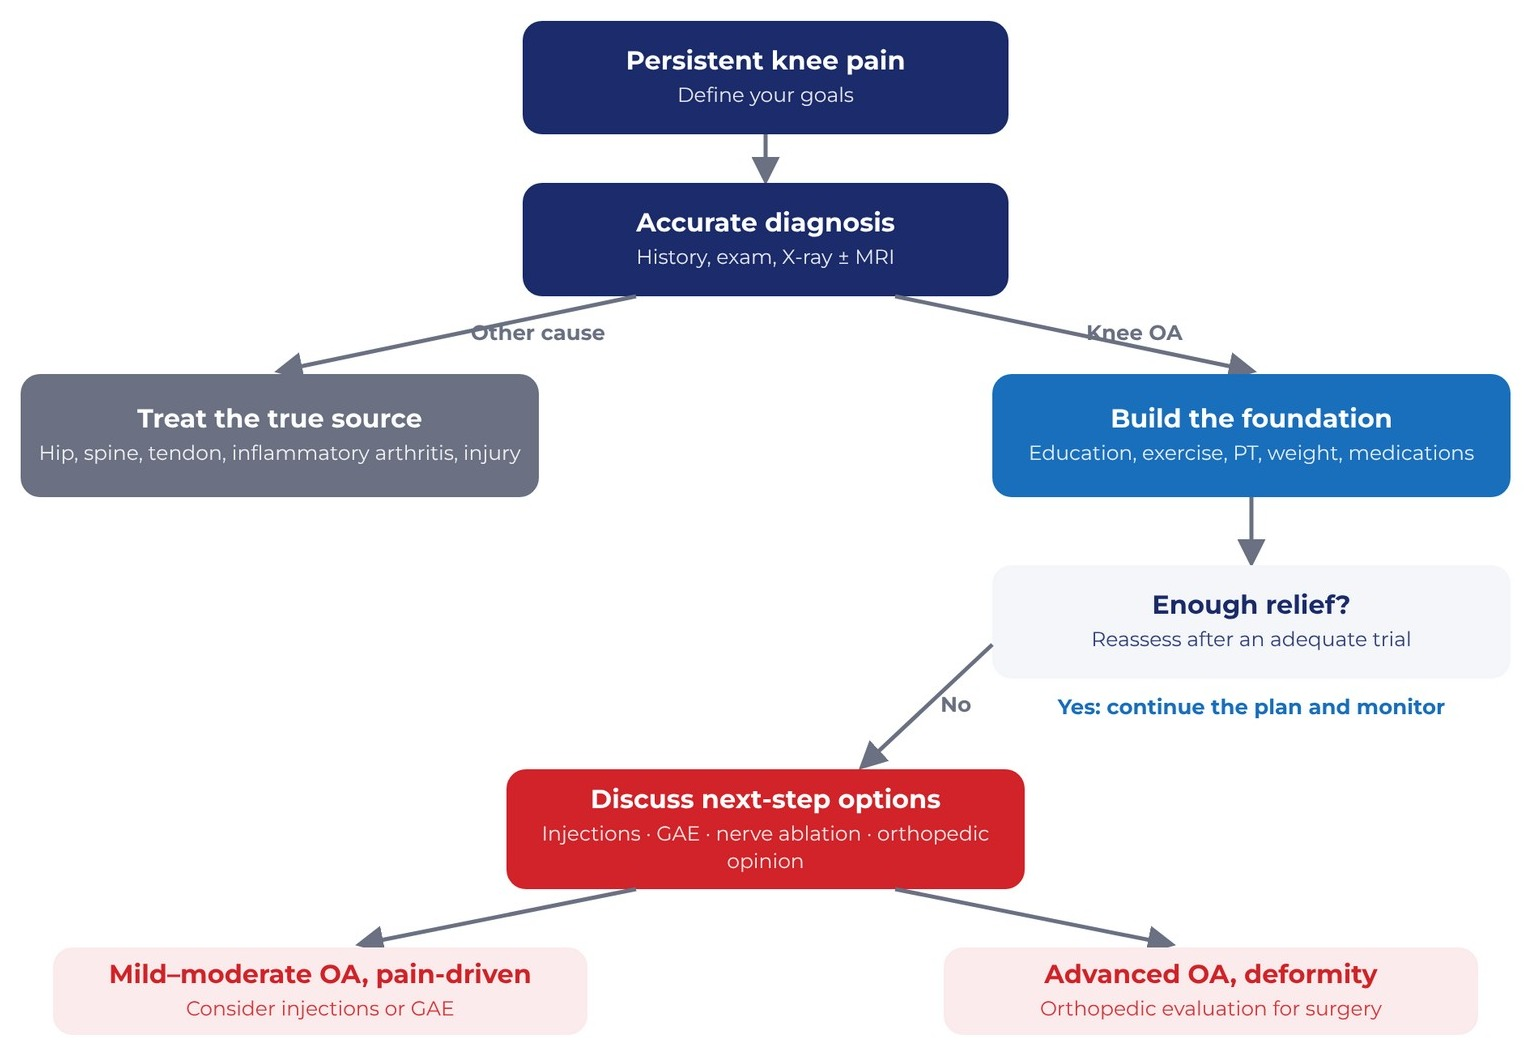
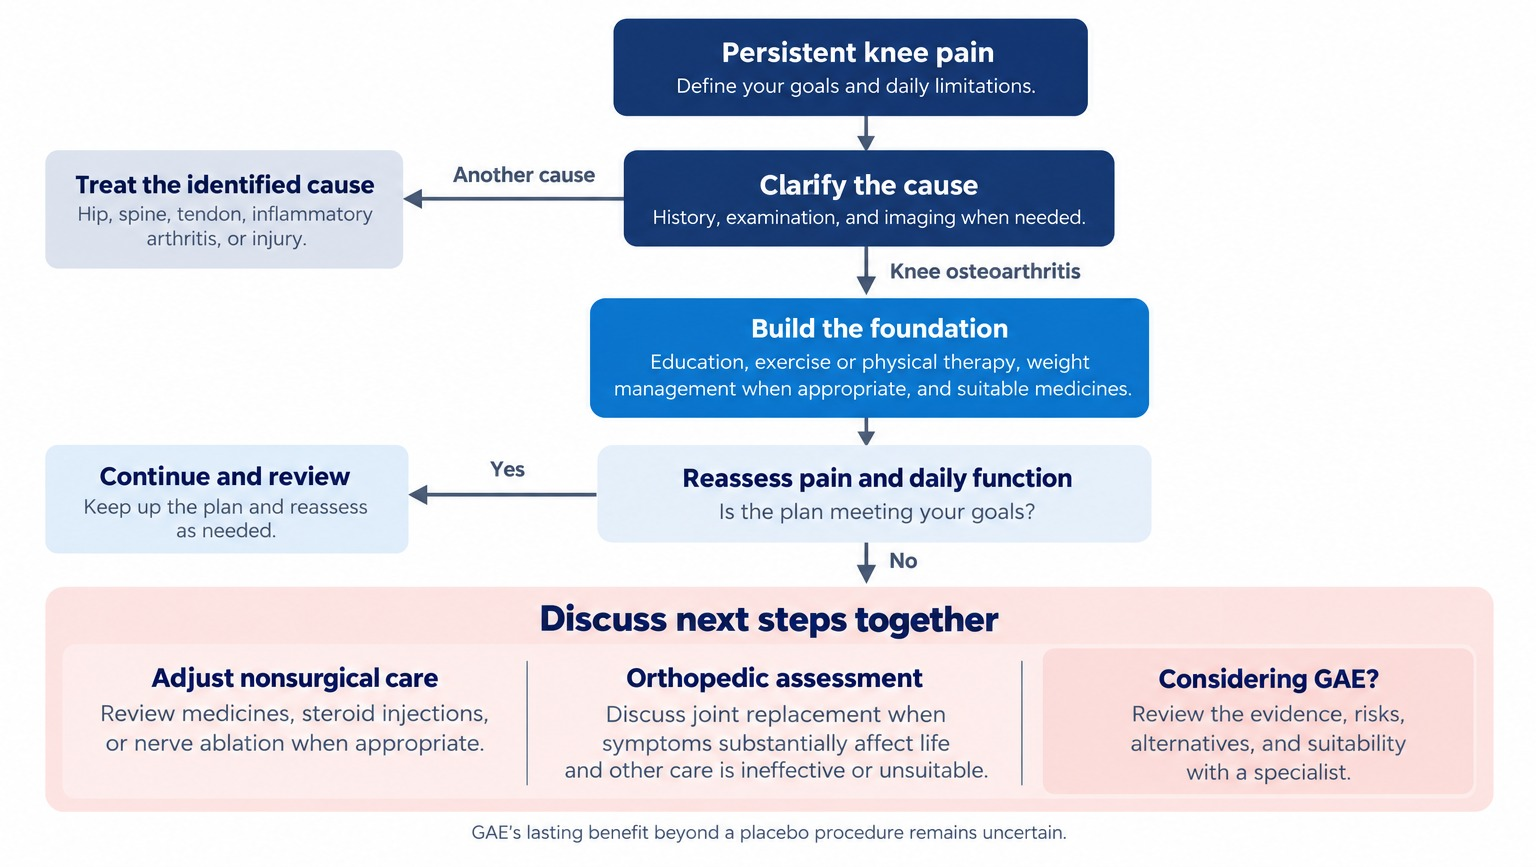
Flip J22a: new decision pathway illustration
Claude-Session: https://claude.ai/code/session_011FeJdRfmDCgTZcMtNMgwbg

diff --git a/js/templates.js b/js/templates.js
@@ -871,7 +871,7 @@ window.AJPVC_TEMPLATES = [
     "label": "J22a · A Step-by-Step Decision Path (patient side)",
     "w": 1056,
     "h": 816,
-    "html": "<div style=\"width: 1056px; height: 816px; box-sizing: border-box; background: #FFFEFB; color: #1B2440; font-family: 'Public Sans', sans-serif; display: flex; flex-direction: column; padding: 34px 44px 26px; gap: 20px\">\n<div style=\"display: flex; justify-content: space-between; align-items: flex-end; gap: 24px; border-bottom: 5px solid #C8231E; padding-bottom: 14px\">\n<div style=\"display: flex; flex-direction: column; gap: 4px\"><p style=\"margin: 0; font-family: 'Montserrat', sans-serif; font-weight: 700; font-size: 15px; letter-spacing: 3px; text-transform: uppercase; color: #C8231E\">Joint pain</p>\n<h1 style=\"margin: 0; font-family: 'Montserrat', sans-serif; font-weight: 800; font-size: 44px; line-height: 1.05; color: #16306E\">A Step-by-Step Decision Path</h1></div>\n<div style=\"display: flex; align-items: center; gap: 14px\"><img src=\"assets/logo-hvlc.png\" alt=\"Heart Vascular &amp; Leg Center logo\" style=\"height: 34px; width: 78px; object-fit: contain; object-position: left center\"><span style=\"width: 1px; height: 27px; background: #E2DED4\"></span><img src=\"assets/logo-long-nodivision.png\" alt=\"Advanced Joint Pain &amp; Vascular Center logo\" style=\"height: 34px; width: 129px; object-fit: contain; object-position: left center\"></div></div>\n<main style=\"flex: 1; min-height: 0; display: flex; flex-direction: column; gap: 16px\"><div style=\"flex: 1; min-height: 0; display: flex; flex-direction: column; gap: 10px\"><div style=\"flex: 1; min-height: 0; min-width: 0; background: #FFFFFF; border-radius: 18px; overflow: hidden; display: flex\"><img src=\"assets/book-decision.jpg\" alt=\"Flowchart from persistent knee pain to accurate diagnosis, branching to treating another source or building the OA foundation, then reassessing relief and discussing next-step options such as injections, GAE or orthopedic evaluation.\" style=\"width: 100%; height: 100%; object-fit: contain; object-position: 50% 50%; display: block\"></div></div><div style=\"display: flex; gap: 24px\"><div style=\"flex: 1; min-width: 0; display: flex; gap: 12px; align-items: flex-start; border-top: 4px solid #C8231E; padding-top: 12px\"><p style=\"margin: 0; font-size: 22px; line-height: 1.32; color: #1B2440\">Start with your goals and an accurate diagnosis.</p></div><div style=\"flex: 1; min-width: 0; display: flex; gap: 12px; align-items: flex-start; border-top: 4px solid #C8231E; padding-top: 12px\"><p style=\"margin: 0; font-size: 22px; line-height: 1.32; color: #1B2440\">Build the foundation, then check if it is enough.</p></div><div style=\"flex: 1; min-width: 0; display: flex; gap: 12px; align-items: flex-start; border-top: 4px solid #C8231E; padding-top: 12px\"><p style=\"margin: 0; font-size: 22px; line-height: 1.32; color: #1B2440\">If not, talk through next steps that fit you.</p></div></div></main></div>"
+    "html": "<div style=\"width: 1056px; height: 816px; box-sizing: border-box; background: #FFFEFB; color: #1B2440; font-family: 'Public Sans', sans-serif; display: flex; flex-direction: column; padding: 34px 44px 26px; gap: 20px\">\n<div style=\"display: flex; justify-content: space-between; align-items: flex-end; gap: 24px; border-bottom: 5px solid #C8231E; padding-bottom: 14px\">\n<div style=\"display: flex; flex-direction: column; gap: 4px\"><p style=\"margin: 0; font-family: 'Montserrat', sans-serif; font-weight: 700; font-size: 15px; letter-spacing: 3px; text-transform: uppercase; color: #C8231E\">Joint pain</p>\n<h1 style=\"margin: 0; font-family: 'Montserrat', sans-serif; font-weight: 800; font-size: 44px; line-height: 1.05; color: #16306E\">A Step-by-Step Decision Path</h1></div>\n<div style=\"display: flex; align-items: center; gap: 14px\"><img src=\"assets/logo-hvlc.png\" alt=\"Heart Vascular &amp; Leg Center logo\" style=\"height: 34px; width: 78px; object-fit: contain; object-position: left center\"><span style=\"width: 1px; height: 27px; background: #E2DED4\"></span><img src=\"assets/logo-long-nodivision.png\" alt=\"Advanced Joint Pain &amp; Vascular Center logo\" style=\"height: 34px; width: 129px; object-fit: contain; object-position: left center\"></div></div>\n<main style=\"flex: 1; min-height: 0; display: flex; flex-direction: column; gap: 16px\"><div style=\"flex: 1; min-height: 0; display: flex; flex-direction: column; gap: 10px\"><div style=\"flex: 1; min-height: 0; min-width: 0; background: #FFFFFF; border-radius: 18px; overflow: hidden; display: flex\"><img src=\"assets/book-decision.jpg\" alt=\"Flowchart for choosing the next step for knee pain: define goals, clarify the cause, build the foundation, reassess, and if goals are not met discuss nonsurgical care, orthopedic assessment, or GAE with a specialist\" style=\"width: 100%; height: 100%; object-fit: contain; object-position: 50% 50%; display: block\"></div></div><div style=\"display: flex; gap: 24px\"><div style=\"flex: 1; min-width: 0; display: flex; gap: 12px; align-items: flex-start; border-top: 4px solid #C8231E; padding-top: 12px\"><p style=\"margin: 0; font-size: 22px; line-height: 1.32; color: #1B2440\">Start with your goals and an accurate diagnosis.</p></div><div style=\"flex: 1; min-width: 0; display: flex; gap: 12px; align-items: flex-start; border-top: 4px solid #C8231E; padding-top: 12px\"><p style=\"margin: 0; font-size: 22px; line-height: 1.32; color: #1B2440\">Build the foundation, then check if it is enough.</p></div><div style=\"flex: 1; min-width: 0; display: flex; gap: 12px; align-items: flex-start; border-top: 4px solid #C8231E; padding-top: 12px\"><p style=\"margin: 0; font-size: 22px; line-height: 1.32; color: #1B2440\">If not, talk through next steps that fit you.</p></div></div></main></div>"
    },
    {
     "label": "J22b · A Step-by-Step Decision Path (provider side)",

diff --git a/source/FlipJ22Decision.dc.html b/source/FlipJ22Decision.dc.html
@@ -18,7 +18,7 @@ body{margin:0}
 <div style="display: flex; flex-direction: column; gap: 4px"><p style="margin: 0; font-family: 'Montserrat', sans-serif; font-weight: 700; font-size: 15px; letter-spacing: 3px; text-transform: uppercase; color: #C8231E">Joint pain</p>
 <h1 style="margin: 0; font-family: 'Montserrat', sans-serif; font-weight: 800; font-size: 44px; line-height: 1.05; color: #16306E">A Step-by-Step Decision Path</h1></div>
 <div style="display: flex; align-items: center; gap: 14px"><img src="/_blob/1e4ce51a5c3cb793b6317890e43e495e" alt="Heart Vascular &amp; Leg Center logo" style="height: 34px; width: 78px; object-fit: contain; object-position: left center"><span style="width: 1px; height: 27px; background: #E2DED4"></span><img src="/_blob/48c0202744b17fe1f033a36586de7a92" alt="Advanced Joint Pain &amp; Vascular Center logo" style="height: 34px; width: 129px; object-fit: contain; object-position: left center"></div></div>
-<main style="flex: 1; min-height: 0; display: flex; flex-direction: column; gap: 16px"><div style="flex: 1; min-height: 0; display: flex; flex-direction: column; gap: 10px"><div style="flex: 1; min-height: 0; min-width: 0; background: #FFFFFF; border-radius: 18px; overflow: hidden; display: flex"><img src="/_blob/bce1513ca9b74781af301d483f154402" alt="Flowchart from persistent knee pain to accurate diagnosis, branching to treating another source or building the OA foundation, then reassessing relief and discussing next-step options such as injections, GAE or orthopedic evaluation." style="width: 100%; height: 100%; object-fit: contain; object-position: 50% 50%; display: block"></div></div><div style="display: flex; gap: 24px"><div style="flex: 1; min-width: 0; display: flex; gap: 12px; align-items: flex-start; border-top: 4px solid #C8231E; padding-top: 12px"><p style="margin: 0; font-size: 22px; line-height: 1.32; color: #1B2440">Start with your goals and an accurate diagnosis.</p></div><div style="flex: 1; min-width: 0; display: flex; gap: 12px; align-items: flex-start; border-top: 4px solid #C8231E; padding-top: 12px"><p style="margin: 0; font-size: 22px; line-height: 1.32; color: #1B2440">Build the foundation, then check if it is enough.</p></div><div style="flex: 1; min-width: 0; display: flex; gap: 12px; align-items: flex-start; border-top: 4px solid #C8231E; padding-top: 12px"><p style="margin: 0; font-size: 22px; line-height: 1.32; color: #1B2440">If not, talk through next steps that fit you.</p></div></div></main></div>
+<main style="flex: 1; min-height: 0; display: flex; flex-direction: column; gap: 16px"><div style="flex: 1; min-height: 0; display: flex; flex-direction: column; gap: 10px"><div style="flex: 1; min-height: 0; min-width: 0; background: #FFFFFF; border-radius: 18px; overflow: hidden; display: flex"><img src="/_blob/864969fea691f2bc6b657d3dfb28fb16" alt="Flowchart for choosing the next step for knee pain: define goals, clarify the cause, build the foundation, reassess, and if goals are not met discuss nonsurgical care, orthopedic assessment, or GAE with a specialist" style="width: 100%; height: 100%; object-fit: contain; object-position: 50% 50%; display: block"></div></div><div style="display: flex; gap: 24px"><div style="flex: 1; min-width: 0; display: flex; gap: 12px; align-items: flex-start; border-top: 4px solid #C8231E; padding-top: 12px"><p style="margin: 0; font-size: 22px; line-height: 1.32; color: #1B2440">Start with your goals and an accurate diagnosis.</p></div><div style="flex: 1; min-width: 0; display: flex; gap: 12px; align-items: flex-start; border-top: 4px solid #C8231E; padding-top: 12px"><p style="margin: 0; font-size: 22px; line-height: 1.32; color: #1B2440">Build the foundation, then check if it is enough.</p></div><div style="flex: 1; min-width: 0; display: flex; gap: 12px; align-items: flex-start; border-top: 4px solid #C8231E; padding-top: 12px"><p style="margin: 0; font-size: 22px; line-height: 1.32; color: #1B2440">If not, talk through next steps that fit you.</p></div></div></main></div>
 </x-dc>
 <script type="text/x-dc" data-dc-script data-props='{"$preview":{"width":1056,"height":816}}'>
 class Component extends DCLogic {
